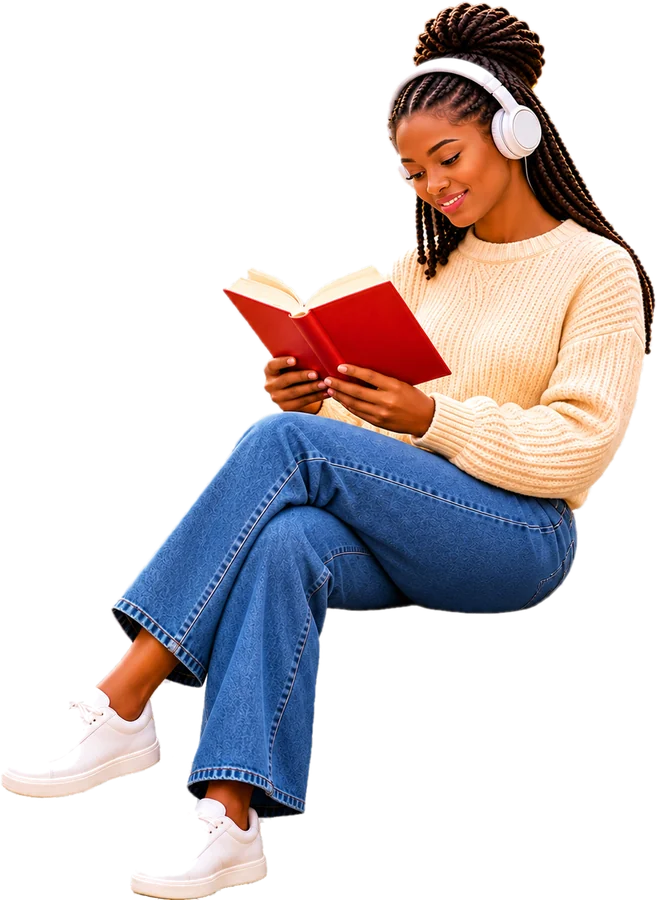
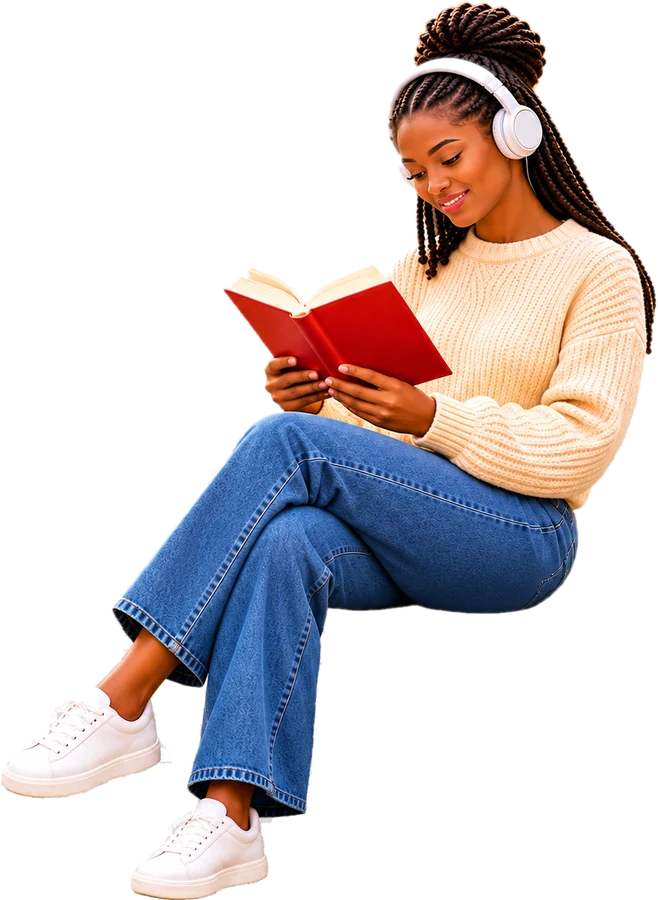
A0 TP lesson 1: second people batch with rotating scene batches
Claude-Session: https://claude.ai/code/session_012674gppwsGcRu4XwzzX1VD

diff --git a/public/levels/lesson-engine-tp.js b/public/levels/lesson-engine-tp.js
@@ -37,7 +37,7 @@ var mediaRecorder = null;
 var recordedChunks = [];
 var currentStream = null;
 var lsAudioCtx = null;
-var lsWaveAnimId = null;/*PSB*/var psScene=null;if(LEVEL==="a0-tout-public"&&LESSON===1){document.body.classList.add("ps-wait");window.psRender=function(p,b,c){return window.__psUI?window.__psUI(p,b,c):false;};(function(){function go(){document.body.classList.remove("ps-wait");}var l=document.createElement("link");l.rel="stylesheet";l.href="/levels/scene-paris/scene-paris.css?v=15";document.head.appendChild(l);var s=document.createElement("script");s.src="/levels/scene-paris/scene-paris.js?v=15";s.onerror=go;s.onload=function(){try{document.body.classList.add("ps-on");psScene=ParisScene.mount({mic:false,overlay:true});window.__psScene=psScene;var u=document.createElement("script");u.src="/levels/scene-paris/scene-ui.js?v=15";u.onerror=go;u.onload=function(){go();if(allAssets.length){renderPart(currentPart,getPartLabel(currentPart));}};document.head.appendChild(u);}catch(e){console.error("scene",e);go();}};document.head.appendChild(s);setTimeout(go,6000);})();}window.psHook=function(){};/*PSE*/
+var lsWaveAnimId = null;/*PSB*/var psScene=null;if(LEVEL==="a0-tout-public"&&LESSON===1){document.body.classList.add("ps-wait");window.psRender=function(p,b,c){return window.__psUI?window.__psUI(p,b,c):false;};(function(){function go(){document.body.classList.remove("ps-wait");}var l=document.createElement("link");l.rel="stylesheet";l.href="/levels/scene-paris/scene-paris.css?v=16";document.head.appendChild(l);var s=document.createElement("script");s.src="/levels/scene-paris/scene-paris.js?v=16";s.onerror=go;s.onload=function(){try{document.body.classList.add("ps-on");psScene=ParisScene.mount({mic:false,overlay:true});window.__psScene=psScene;var u=document.createElement("script");u.src="/levels/scene-paris/scene-ui.js?v=16";u.onerror=go;u.onload=function(){go();if(allAssets.length){renderPart(currentPart,getPartLabel(currentPart));}};document.head.appendChild(u);}catch(e){console.error("scene",e);go();}};document.head.appendChild(s);setTimeout(go,6000);})();}window.psHook=function(){};/*PSE*/
 
 function render(html){ root.innerHTML = html; }
 

diff --git a/public/levels/scene-paris/scene-paris.js b/public/levels/scene-paris/scene-paris.js
@@ -1,7 +1,7 @@
 /* SayBon - Paris plaza scene. One slow camera, walkers that loop from the far end of the road.
    var s = ParisScene.mount({ mic:false, onMic:fn });  s.listen(); s.yourTurn(); s.micState('rec'); s.cheer(); s.calm(); */
 (function(){
-var V='?v=15', BASE='/assets/images/scene-paris-';
+var V='?v=16', BASE='/assets/images/scene-paris-';
 var LAYOUT={
  d:{w:1672,h:941,bg:'bg.webp',fx:.55,fy:.5,fl:'27%',sun:[.82,.14],hz:410,gy:940,cx:1060,fade:.2,
   occ:[0,562,232,941],
@@ -19,11 +19,11 @@ var LAYOUT={
   occ2:[44,904,212,923],
   always:[{k:'pigeon-1',x:598,y:1178,w:84},{k:'pigeon-2',x:676,y:1204,w:70}],
   batches:[
-   {fixed:[{k:'woman-cafe',x:-4,y:772,w:136},{k:'woman-grey',x:161,y:775,w:114},{k:'man-bench',x:709,y:808,w:240},{k:'cyclist',x:595,y:690,w:130,a:'ps-rock'}],
+   {fixed:[{k:'woman-cafe',x:-4,y:772,w:136},{k:'woman-grey',x:161,y:775,w:114},{k:'man-bench',x:709,y:858,w:240},{k:'cyclist',x:595,y:690,w:130,a:'ps-rock'}],
     walkers:[{k:'mother-daughter',asp:1.339,w:640,near:1.5,zEnd:3.2,off:[-300,-160],T:56,z0:5,bob:1}]},
-   {fixed:[{k:'man-cafe',x:-22,y:776,w:132},{k:'woman-beret',x:151,y:763,w:114},{k:'reader',x:712,y:858,w:240},{k:'scooter',x:602,y:690,w:124,a:'ps-rock'}],
+   {fixed:[{k:'man-cafe',x:-22,y:776,w:132},{k:'woman-beret',x:151,y:763,w:114},{k:'reader',x:712,y:893,w:240},{k:'scooter',x:602,y:690,w:124,a:'ps-rock'}],
     walkers:[{k:'father-son',asp:1.179,w:720,near:1.4,zEnd:3.2,off:[-230,-90],T:56,z0:5.2,bob:1}]},
-   {fixed:[{k:'man-cap',x:-16,y:772,w:136},{k:'woman-burgundy',x:135,y:781,w:128},{k:'painter',x:615,y:729,w:327}],
+   {fixed:[{k:'man-cap',x:-16,y:772,w:136},{k:'woman-burgundy',x:135,y:781,w:128},{k:'painter',x:615,y:784,w:327}],
     walkers:[{k:'shopper',asp:2.179,w:393,near:1.5,zEnd:3.2,off:[-420,-300],T:56,z0:5,bob:1},{k:'father-suitcase',asp:1.573,w:540,near:1.4,zEnd:3.2,off:[200,330],T:56,z0:5.2,away:1,bob:1}]}
   ]}
 };

diff --git a/public/levels/A0/tout-public/lesson1.html b/public/levels/A0/tout-public/lesson1.html
@@ -30,7 +30,7 @@
 
 </div>
 
-<script type="module" src="/levels/lesson-engine-tp.js?v=20"></script>
+<script type="module" src="/levels/lesson-engine-tp.js?v=21"></script>
 </body>
 </html>
 
